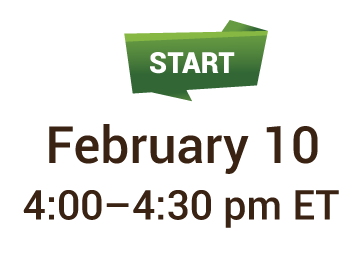
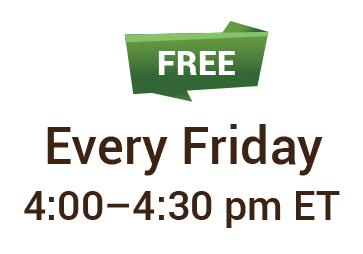
reading circle changes

diff --git a/pages/reading-circle_OLD02_2024-02-26.tsx b/pages/reading-circle_OLD02_2024-02-26.tsx
@@ -47,6 +47,9 @@ export default function Page() {
                  led by teachers, authors, and storytellers with the goal
                 for children to engage in reading books, fun activities, quizzes
                 and conversations around related and relevant themes. Children will love this fun-filled time of reading and learning.
+								<br/><br/>
+								<b>FUN READ FRIDAYS!</b><br/>
+								Start 10 February, 2023
 								<br/><br/>Subscribe to our <a className='dAnchors' href='https://www.youtube.com/@Smartkidzclub' target='_blank'>YouTube</a> and <a className='dAnchors' href='https://www.facebook.com/smartkidzclub' target='_blank'>Facebook</a> channels to get notifications of when we go live.
               </p>
               <p>&#160;</p>
